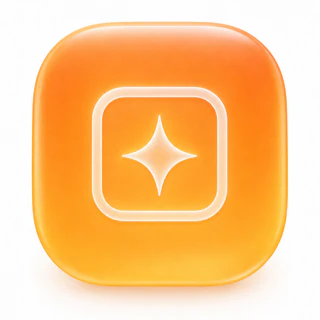
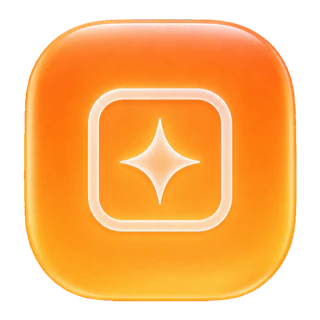
Add MiniCRM and LeadHub artwork; transparent product tiles
All six product cards and glossy tiles now share one family. Tiles are
re-exported with alpha in three sizes (320, 160, 96).

Changed region(s): [[0.0625, 0.0625, 0.9375, 0.9688], [0.25, 0.25, 0.75, 0.75], [0.4375, 0.7812, 0.7188, 0.8438]]

diff --git a/src/assets/art/index.ts b/src/assets/art/index.ts
@@ -2,34 +2,50 @@
 // Corners are square; apply the rounded radius in CSS.
 import productStudio from './product-studio.webp'
 import productVoice from './product-voice.webp'
+import productMinicrm from './product-minicrm.webp'
+import productLeadhub from './product-leadhub.webp'
 import productTcc from './product-tcc.webp'
 import productMarathon from './product-marathon.webp'
 import tileStudio from './tile-studio.webp'
 import tileVoice from './tile-voice.webp'
+import tileMinicrm from './tile-minicrm.webp'
+import tileLeadhub from './tile-leadhub.webp'
 import tileTcc from './tile-tcc.webp'
 import tileMarathon from './tile-marathon.webp'
 import tileStudioSm from './tile-studio-sm.webp'
 import tileVoiceSm from './tile-voice-sm.webp'
+import tileMinicrmSm from './tile-minicrm-sm.webp'
+import tileLeadhubSm from './tile-leadhub-sm.webp'
 import tileTccSm from './tile-tcc-sm.webp'
 import tileMarathonSm from './tile-marathon-sm.webp'
+import tileStudioXs from './tile-studio-xs.webp'
+import tileVoiceXs from './tile-voice-xs.webp'
+import tileMinicrmXs from './tile-minicrm-xs.webp'
+import tileLeadhubXs from './tile-leadhub-xs.webp'
+import tileTccXs from './tile-tcc-xs.webp'
+import tileMarathonXs from './tile-marathon-xs.webp'
 import showcaseStudioUrl from './showcase-studio.webp'
 import footerTextureUrl from './footer-texture.webp'
 import ogBgUrl from './og-bg.webp'
 
-export type ArtProductKey = 'studio' | 'voice' | 'tcc' | 'marathon'
+export type ArtProductKey = 'studio' | 'voice' | 'minicrm' | 'leadhub' | 'tcc' | 'marathon'
 
 /** 1600x1000 (16:10) product card art. */
 export const productArt = {
   studio: productStudio,
   voice: productVoice,
+  minicrm: productMinicrm,
+  leadhub: productLeadhub,
   tcc: productTcc,
   marathon: productMarathon,
 } as const satisfies Record<ArtProductKey, string>
 
-/** 320x320 app-icon tiles (tile on white; for ~80px display at 4x / 160px at 2x). */
+/** 320x320 app-icon tiles on a transparent background (for ~80px display at 4x / 160px at 2x). */
 export const tileArt = {
   studio: tileStudio,
   voice: tileVoice,
+  minicrm: tileMinicrm,
+  leadhub: tileLeadhub,
   tcc: tileTcc,
   marathon: tileMarathon,
 } as const satisfies Record<ArtProductKey, string>
@@ -38,8 +54,20 @@ export const tileArt = {
 export const tileArtSm = {
   studio: tileStudioSm,
   voice: tileVoiceSm,
+  minicrm: tileMinicrmSm,
+  leadhub: tileLeadhubSm,
   tcc: tileTccSm,
   marathon: tileMarathonSm,
+} as const satisfies Record<ArtProductKey, string>
+
+/** 96x96 app-icon tiles (for 24-48px display). */
+export const tileArtXs = {
+  studio: tileStudioXs,
+  voice: tileVoiceXs,
+  minicrm: tileMinicrmXs,
+  leadhub: tileLeadhubXs,
+  tcc: tileTccXs,
+  marathon: tileMarathonXs,
 } as const satisfies Record<ArtProductKey, string>
 
 /** 1920x1080 (16:9) AI Creative Studio showcase panel. */
